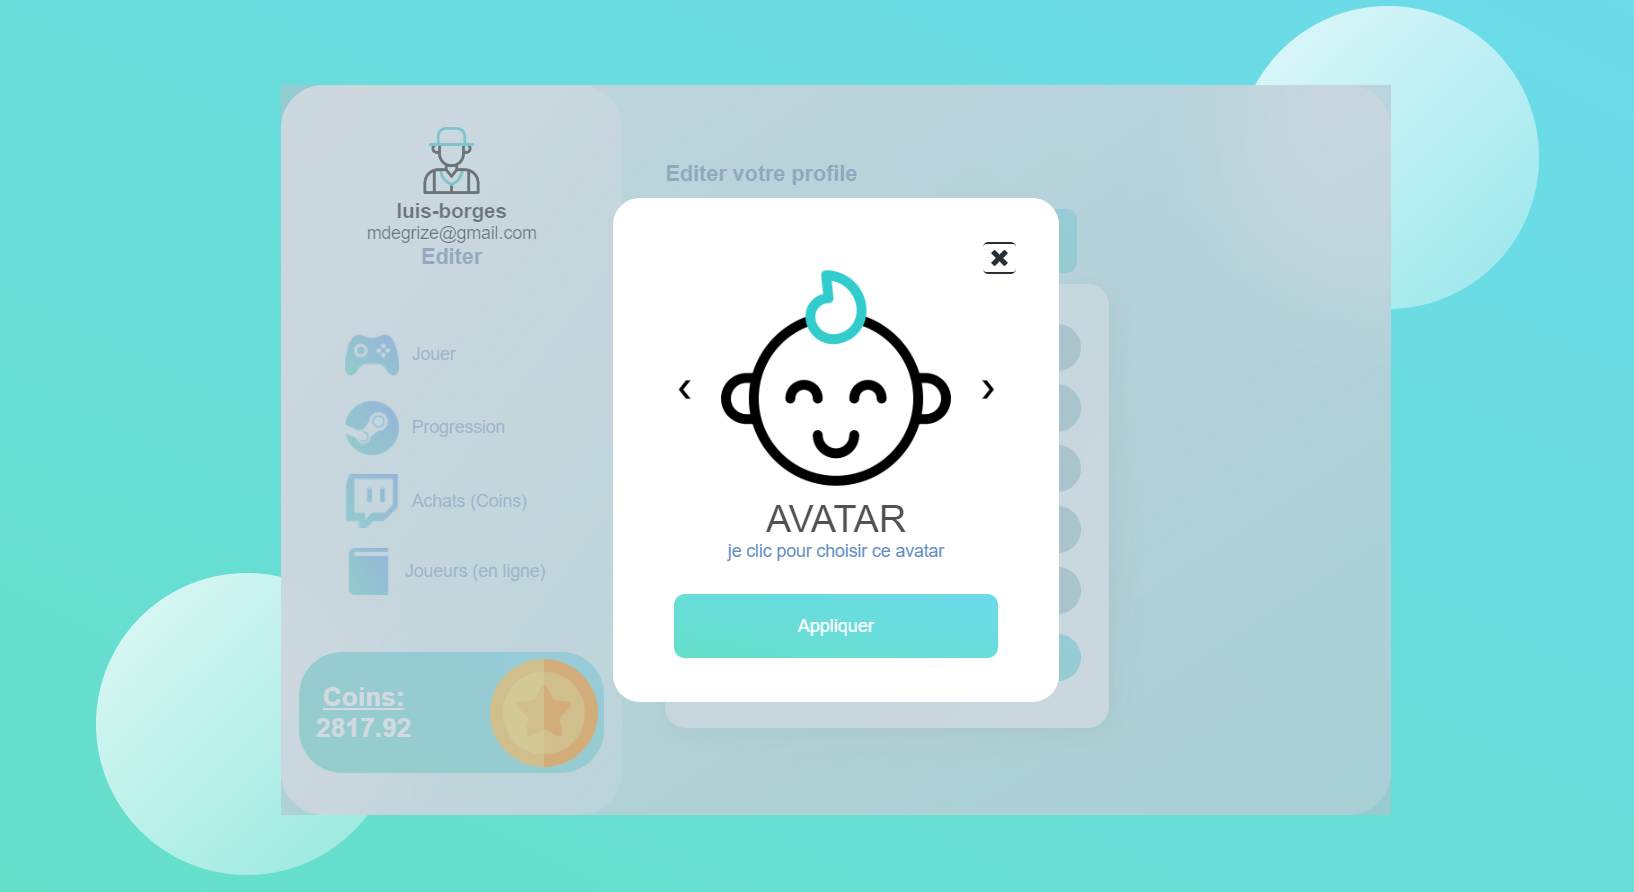
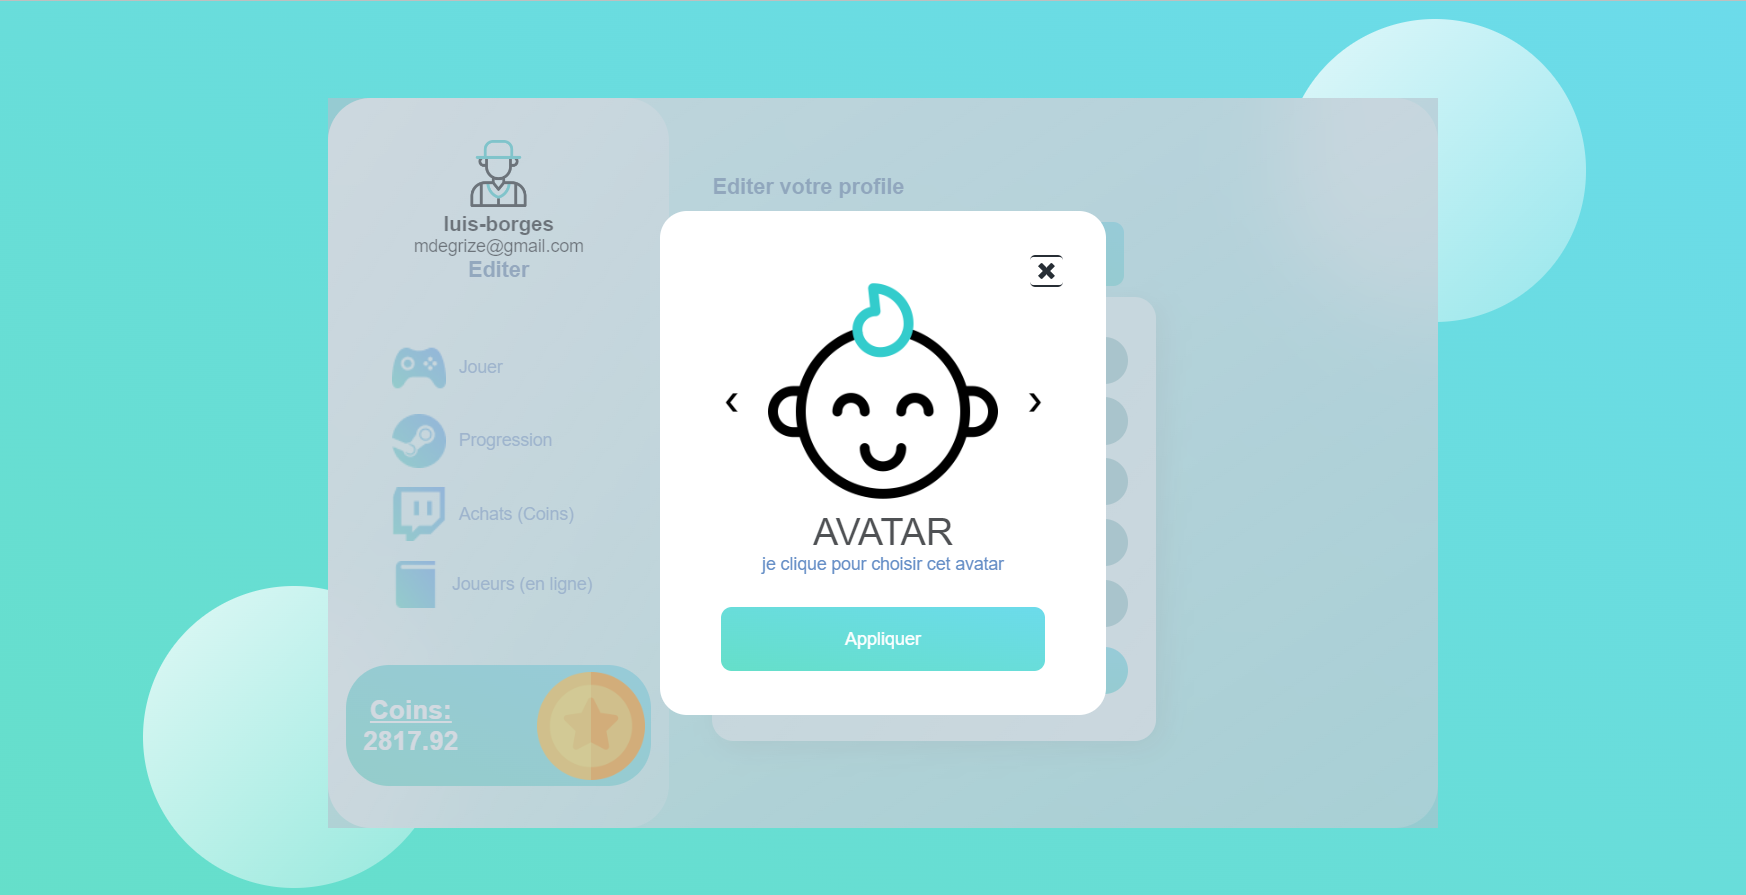
implementation de la page d'accueil

diff --git a/client-web/pages/Panel/vue/index.html b/client-web/pages/Panel/vue/index.html
@@ -244,7 +244,7 @@
                                         </div>
 
                                         <h1 class="modal__title">AVATAR</h1>
-                                        <p class="modal__description">je clic pour choisir ce avatar</p>
+                                        <p class="modal__description">je clique pour choisir cet avatar</p>
 
                                         <button id="choose_avatar" class="modal__button modal__button-width">
                                             Appliquer
